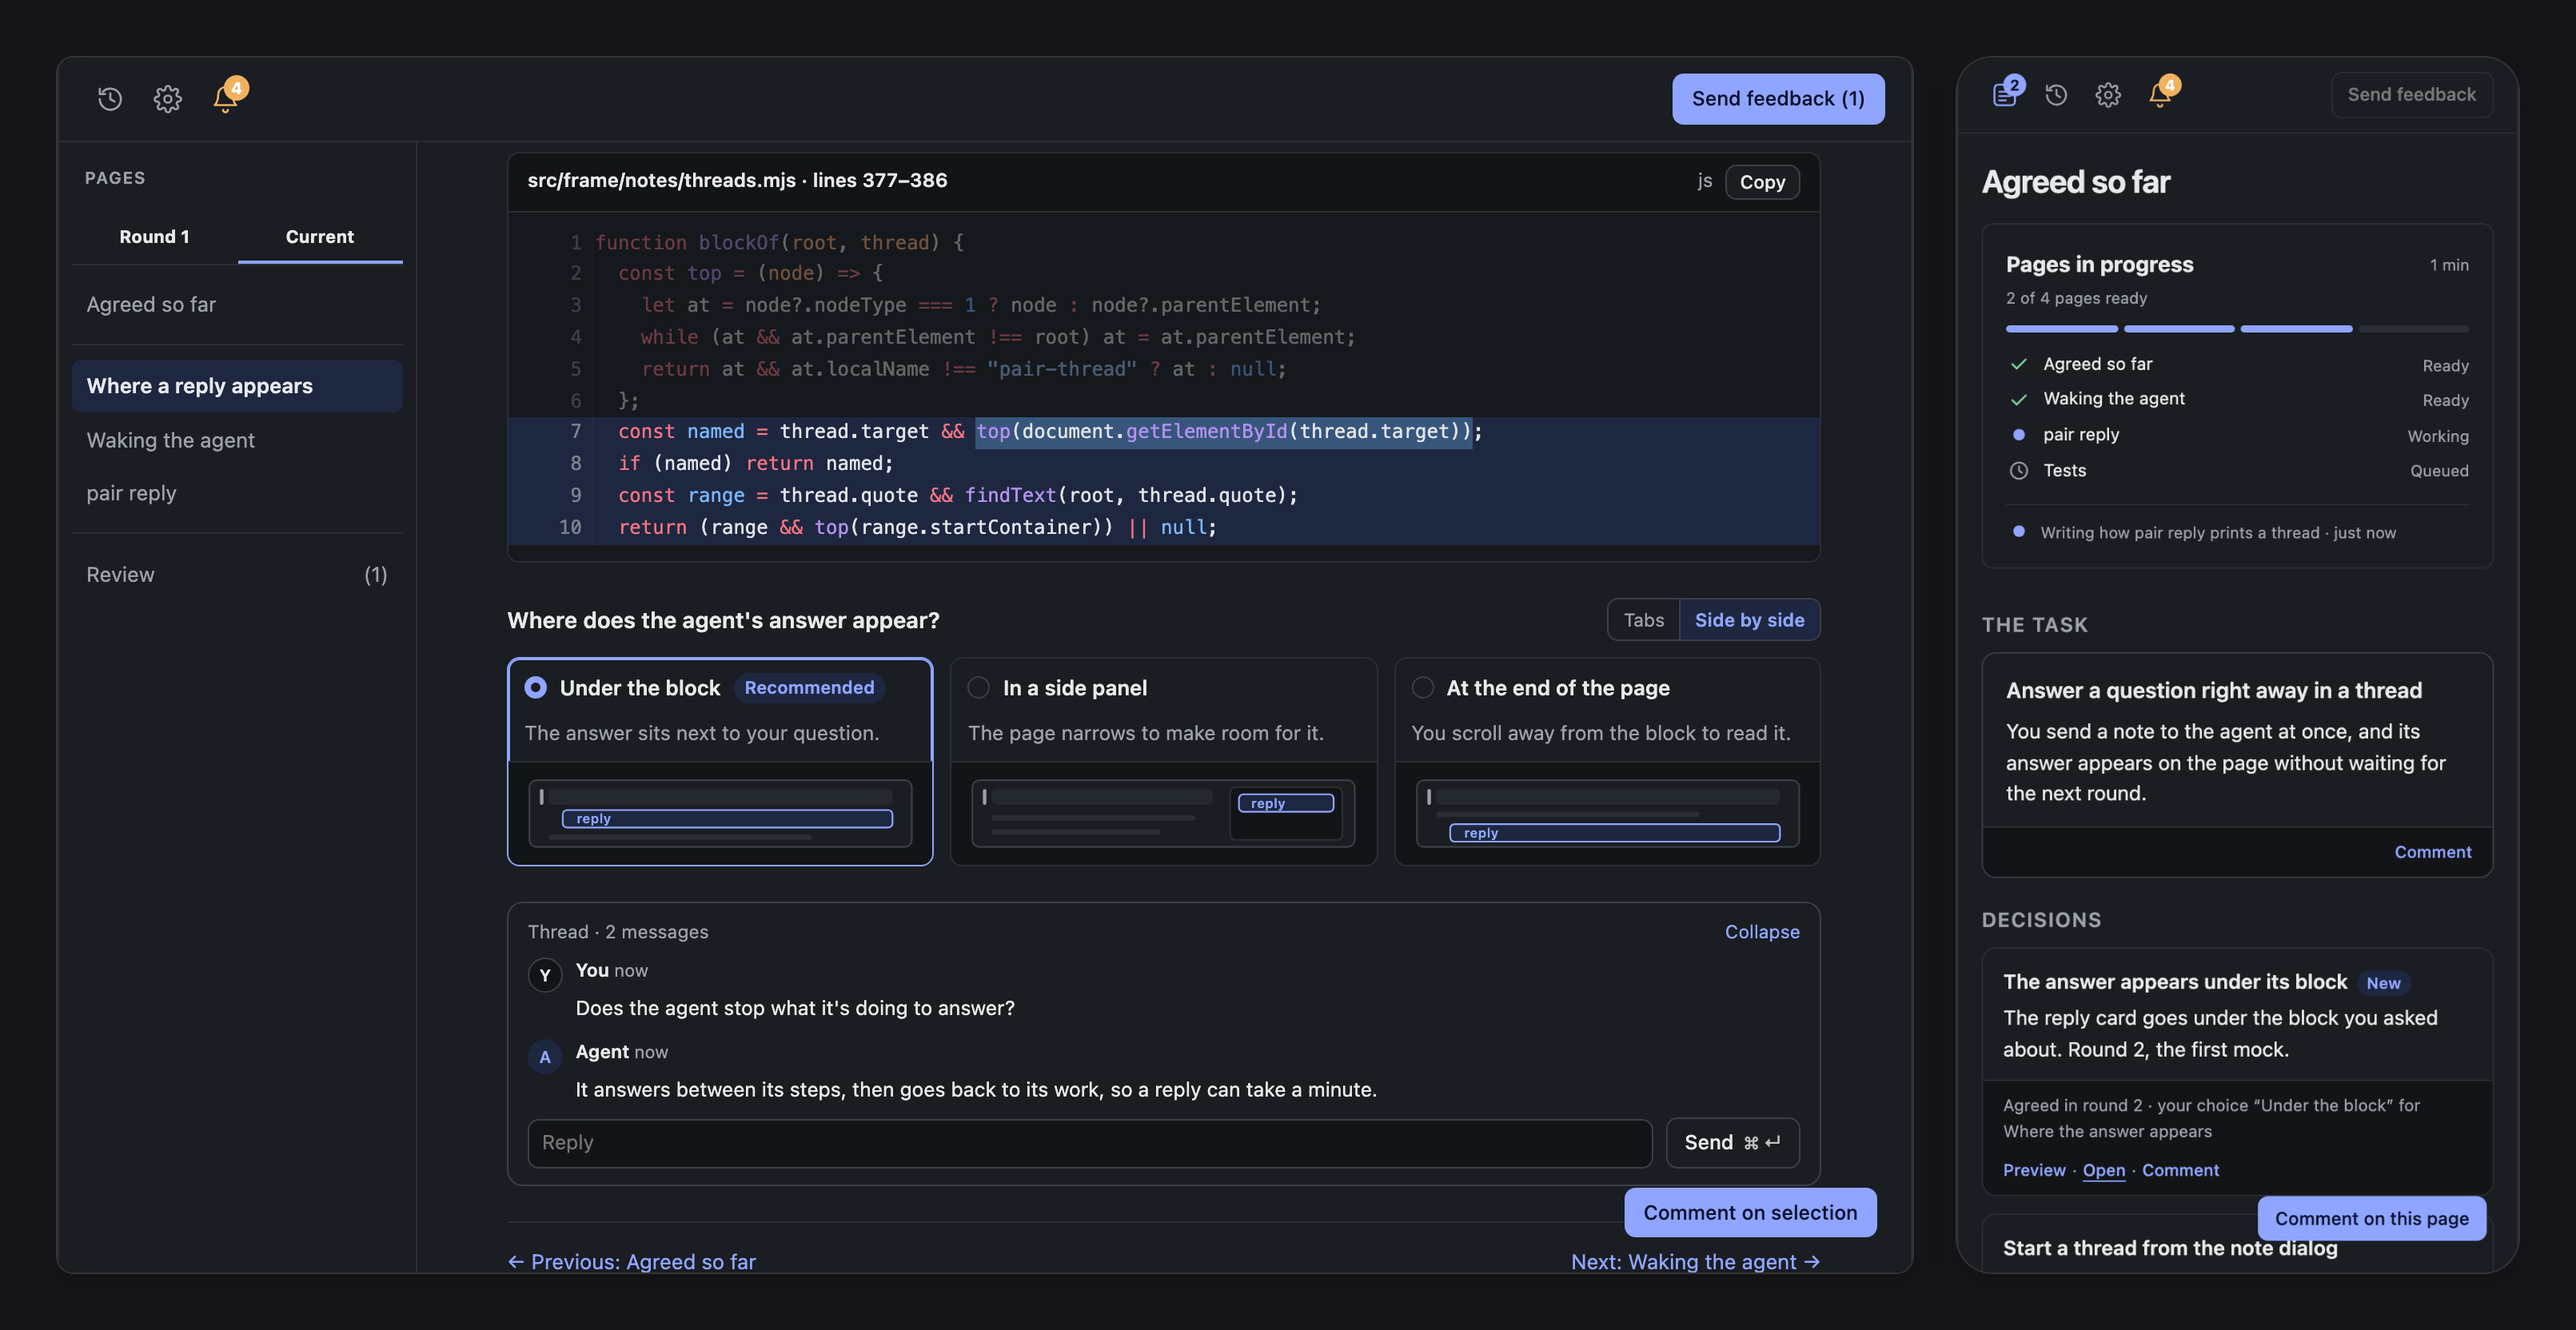
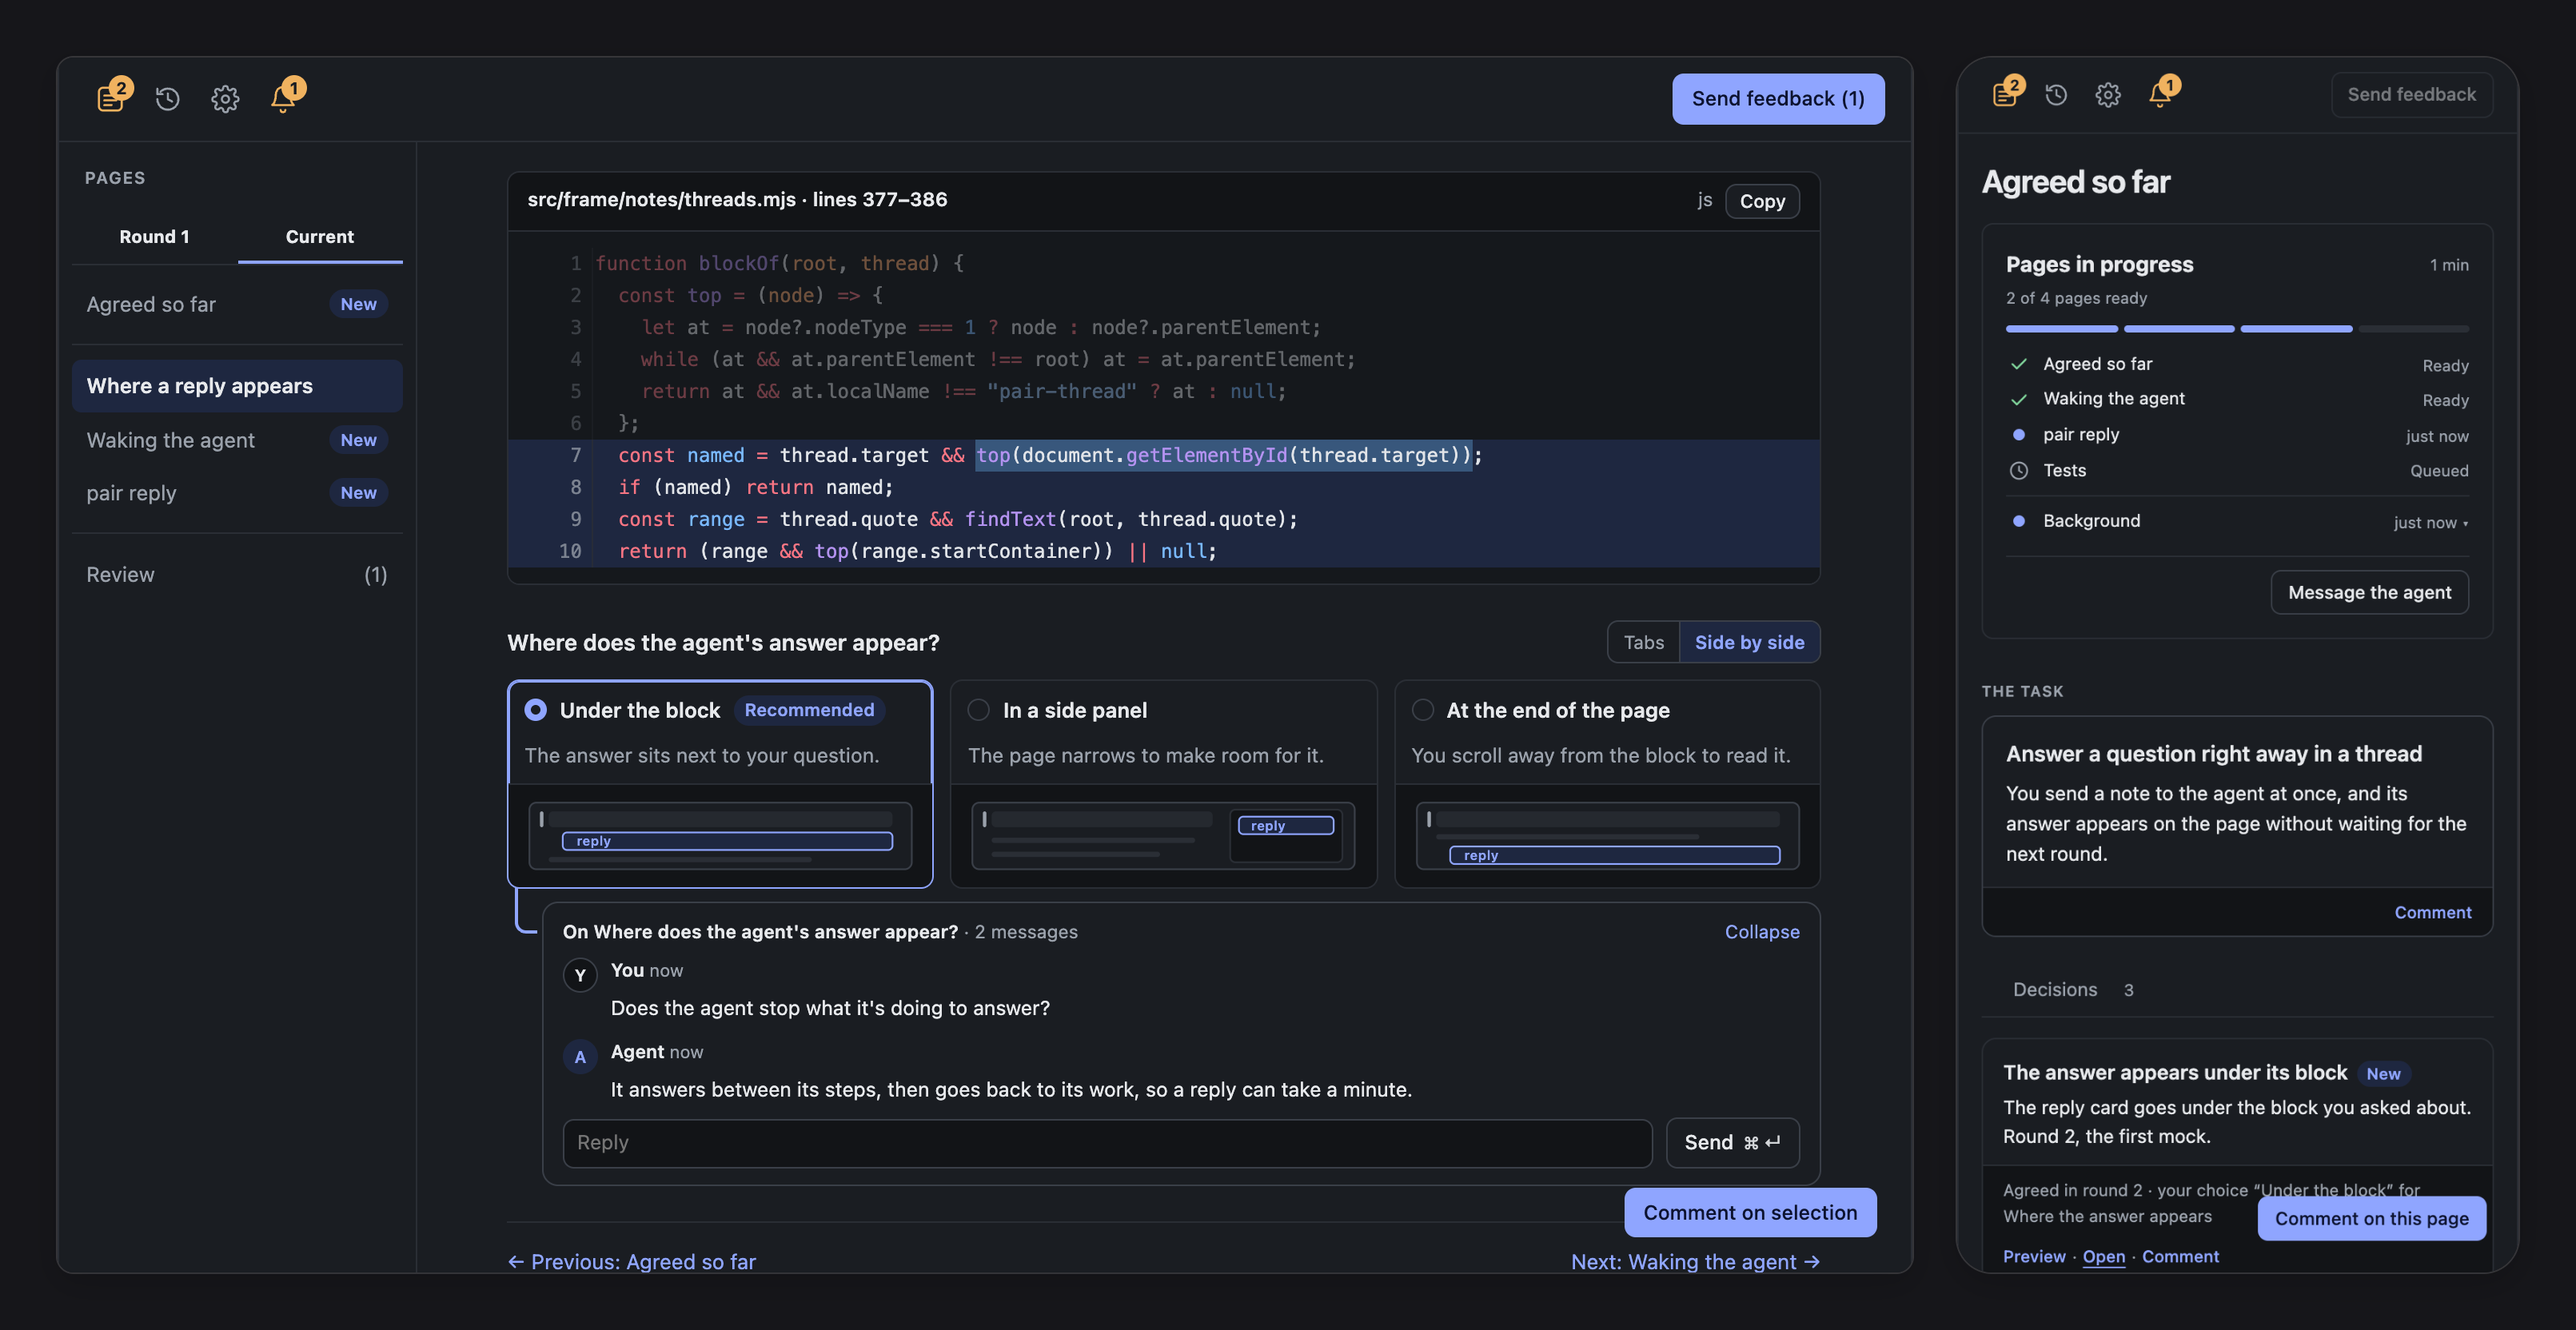
Regenerate the README's screenshots, and show four more in the docs
The README pair keeps its session and layout, drawn by today's frame. The
docs now show a plan page on a phone, the note dialog quoting a
selection, the progress card while a build's pages arrive, and the bell
with an agent's reply.

diff --git a/docs/concepts/threads-and-side-work.md b/docs/concepts/threads-and-side-work.md
@@ -10,6 +10,11 @@ Write a comment, then press **Start a thread** (<kbd>⌘</kbd>
 **Add to feedback**. The comment goes to the agent at once, and its reply
 appears in a card under the block or the side-work item you commented on.
 
+<picture>
+  <source media="(prefers-color-scheme: dark)" srcset="../assets/note-dialog-dark.png">
+  <img alt="The note dialog quoting a selected line of code, with Add to feedback and Start a thread" src="../assets/note-dialog-light.png">
+</picture>
+
 The first line of a card shows what the thread is on. For a comment on a
 block, it shows the block's name. For words you selected, it shows the table
 row, line of code, option or checklist item that contains them, and the card

diff --git a/docs/guides/build-a-plan.md b/docs/guides/build-a-plan.md
@@ -6,6 +6,11 @@ for each part of the work.
 
 ## Follow the build
 
+<picture>
+  <source media="(prefers-color-scheme: dark)" srcset="../assets/progress-card-dark.png">
+  <img alt="The progress card: 2 of 4 pages ready, the page in progress with when it last changed, the agent's background work, and Message the agent" src="../assets/progress-card-light.png" width="390">
+</picture>
+
 - The build round's Agreed shows the task and a progress card: each page as
   Ready, Working or Queued, and the agent's latest note.
 - Each page is published once its part is done and checked, so you can read

diff --git a/docs/concepts/sessions-and-rounds.md b/docs/concepts/sessions-and-rounds.md
@@ -63,6 +63,11 @@ notifications on in Settings, you also get a system notification when a
 session starts waiting, when an agent cannot be woken, and for each new line
 in the bell, unless its session is open in the tab you are using.
 
+<picture>
+  <source media="(prefers-color-scheme: dark)" srcset="../assets/bell-dark.png">
+  <img alt="The bell's list with an agent's reply, and the session button in orange because another session waits for you" src="../assets/bell-light.png">
+</picture>
+
 ## Feedback
 
 - Everything you do is a draft in your browser until you send it.

diff --git a/docs/guides/plan-a-change.md b/docs/guides/plan-a-change.md
@@ -14,6 +14,11 @@ and anything you already know you do or do not want.
 
 ## Each round
 
+<picture>
+  <source media="(prefers-color-scheme: dark)" srcset="../assets/plan-phone-dark.png">
+  <img alt="A plan page on a phone, with a decision's options as tabs and the first option open" src="../assets/plan-phone-light.png" width="390">
+</picture>
+
 - **Read the task first.** It is at the top of Agreed. Everything else
   depends on it, so correct it as soon as it is wrong.
 - **Choose every option you care about.** An option marked Recommended stays
